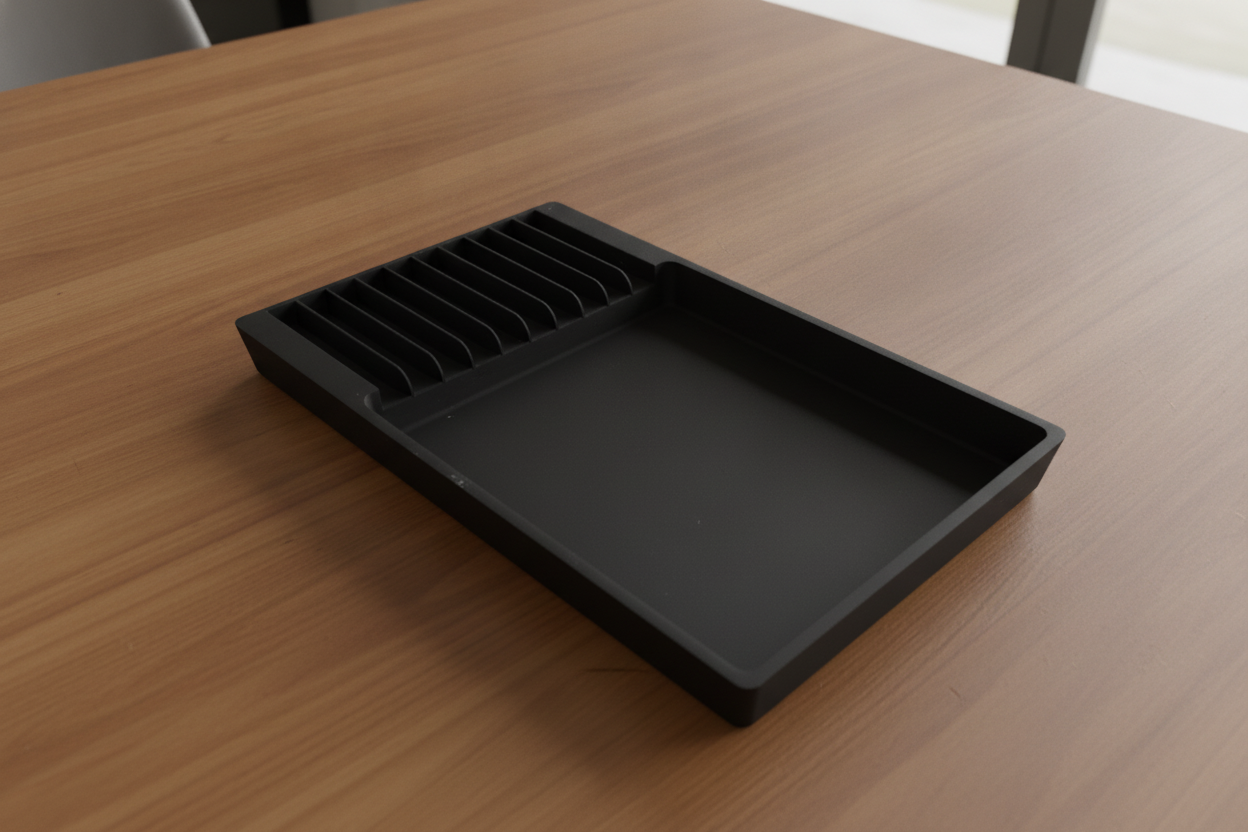
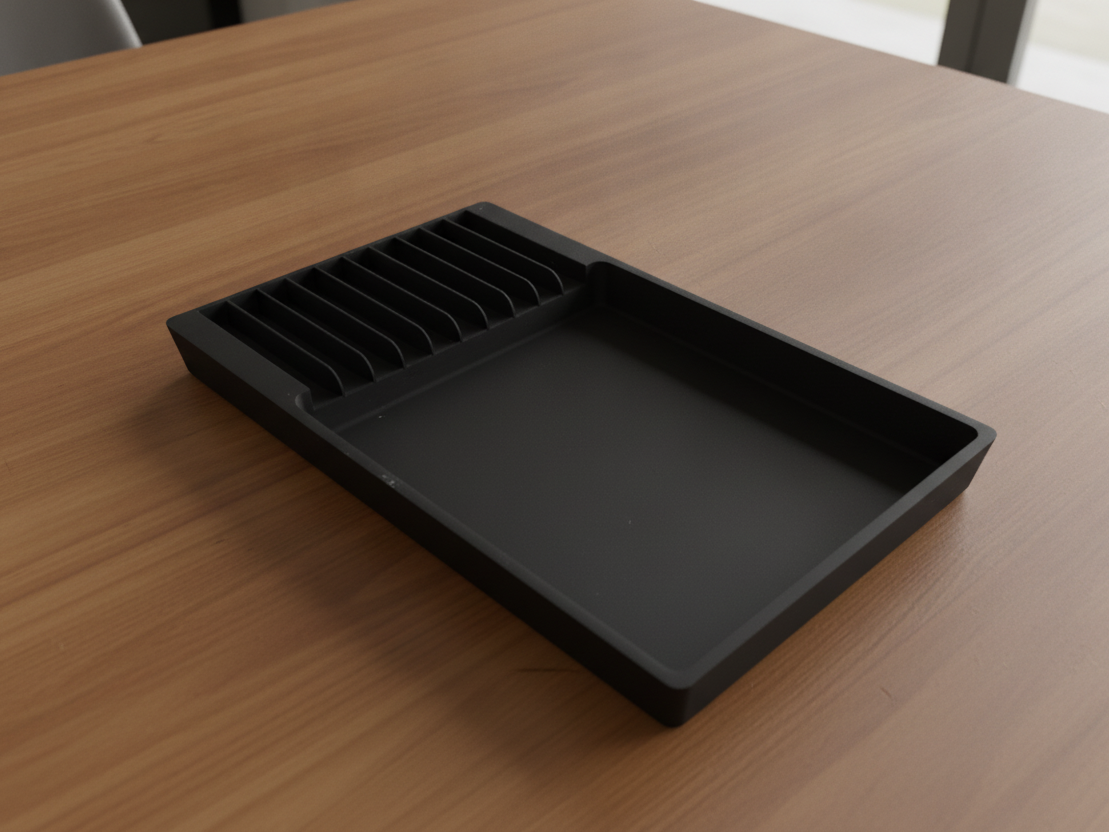
image improvements

diff --git a/index.html b/index.html
@@ -449,7 +449,7 @@ footer a{color:var(--gold); text-decoration:none}
         <!-- STEP 3: Insert -->
         <div class="cfg-step" id="step-holder">
           <div class="cfg-grid">
-            <img class="cfg-img" src="/img/token-holder.png" alt="CP Loadout Token Holder with gauges">
+            <img class="cfg-img" id="cfg-img-holder" src="/img/token-holder.png" alt="Insert preview — your build so far">
             <div>
               <h3>Step 3 — Insert</h3>
               <p class="desc">What sits inside your dice tray.</p>
@@ -466,7 +466,7 @@ footer a{color:var(--gold); text-decoration:none}
         <!-- STEP 4: Token set -->
         <div class="cfg-step" id="step-tok">
           <div class="cfg-grid">
-            <img class="cfg-img" src="/img/tokens-aos.jpg" alt="Age of Sigmar token set">
+            <img class="cfg-img" id="cfg-img-tok" src="/img/tokens-aos.jpg" alt="Token preview — your build so far">
             <div>
               <h3>Step 4 — Token Set</h3>
               <p class="desc">Tokens and command-point coins, printed and ready to drop into our caddy racks.</p>
@@ -681,6 +681,8 @@ function cfgRender(){
       : '<p class="cfg-empty">Nothing selected — go back and pick at least one piece.</p>';
   }
 
+  cfgPreviews();
+
   // footer
   document.getElementById("cfg-total").textContent = gbp(cfgTotal());
   document.getElementById("cfg-back").style.visibility = cfgIx === 0 ? "hidden" : "visible";
@@ -696,9 +698,54 @@ function cfgRender(){
 
 function cfgNext(){
   if(CFG_STEPS[cfgIx] === "summary"){ cfgAddToCart(); return; }
-  cfgIx++; cfgRender();
+  cfgIx++;
+  // Token Holder is the default insert — pre-select it on arrival (unless dice tray was skipped)
+  if(CFG_STEPS[cfgIx] === "holder" && cfgSel.holder === undefined && cfgSel.dice) cfgSel.holder = "token-holder";
+  cfgRender();
 }
 function cfgBack(){ if(cfgIx > 0){ cfgIx--; cfgRender(); } }
+
+/* ---- build-preview images ----
+   Combo renders follow this naming (PNG, /img/):
+     dice-tray-16[-token-holder][-tokens-aos|-tokens-40k].png
+     tokens-aos.png · tokens-40k.png (standalone)
+   Missing renders fall back down the chain to the closest existing image. */
+function setPreview(img, chain){
+  const key = chain.join("|");
+  if(img.dataset.chain === key) return;
+  img.dataset.chain = key;
+  let i = 0;
+  img.onerror = () => { i++; if(i < chain.length) img.src = chain[i]; };
+  img.src = chain[0];
+}
+function diceBase(){
+  const d = cfgSel.dice;
+  return d ? "dice-tray-" + (d === "16mm" ? "16" : d === "12mm" ? "12" : "mixed") : null;
+}
+function cfgPreviews(){
+  const db = diceBase(), h = cfgSel.holder, t = cfgSel.tok;
+  // Step 3: tray + holder, or empty tray if holder skipped
+  let hc;
+  if(db && h)      hc = ["/img/" + db + "-token-holder.png", "/img/token-holder.png"];
+  else if(db)      hc = ["/img/" + db + ".png", "/img/dice-tray-16.png"];
+  else             hc = ["/img/token-holder.png"];
+  setPreview(document.getElementById("cfg-img-holder"), hc);
+  // Step 4: full build so far
+  const parts = [];
+  if(db) parts.push(db);
+  if(h)  parts.push("token-holder");
+  const tokImg = document.getElementById("cfg-img-tok");
+  if(t){
+    const chain = [];
+    if(parts.length) chain.push("/img/" + parts.concat("tokens-" + t).join("-") + ".png");
+    chain.push("/img/tokens-" + t + ".png", "/img/tokens-aos.jpg");
+    setPreview(tokImg, chain);
+  }else if(parts.length){
+    setPreview(tokImg, hc);
+  }else{
+    setPreview(tokImg, ["/img/tokens-aos.jpg"]);
+  }
+}
 function cfgAddToCart(){
   cfgSkus().forEach(sku => { cart[sku] = (cart[sku]||0) + 1; });
   for(const k in cfgSel) cfgSel[k] = undefined;